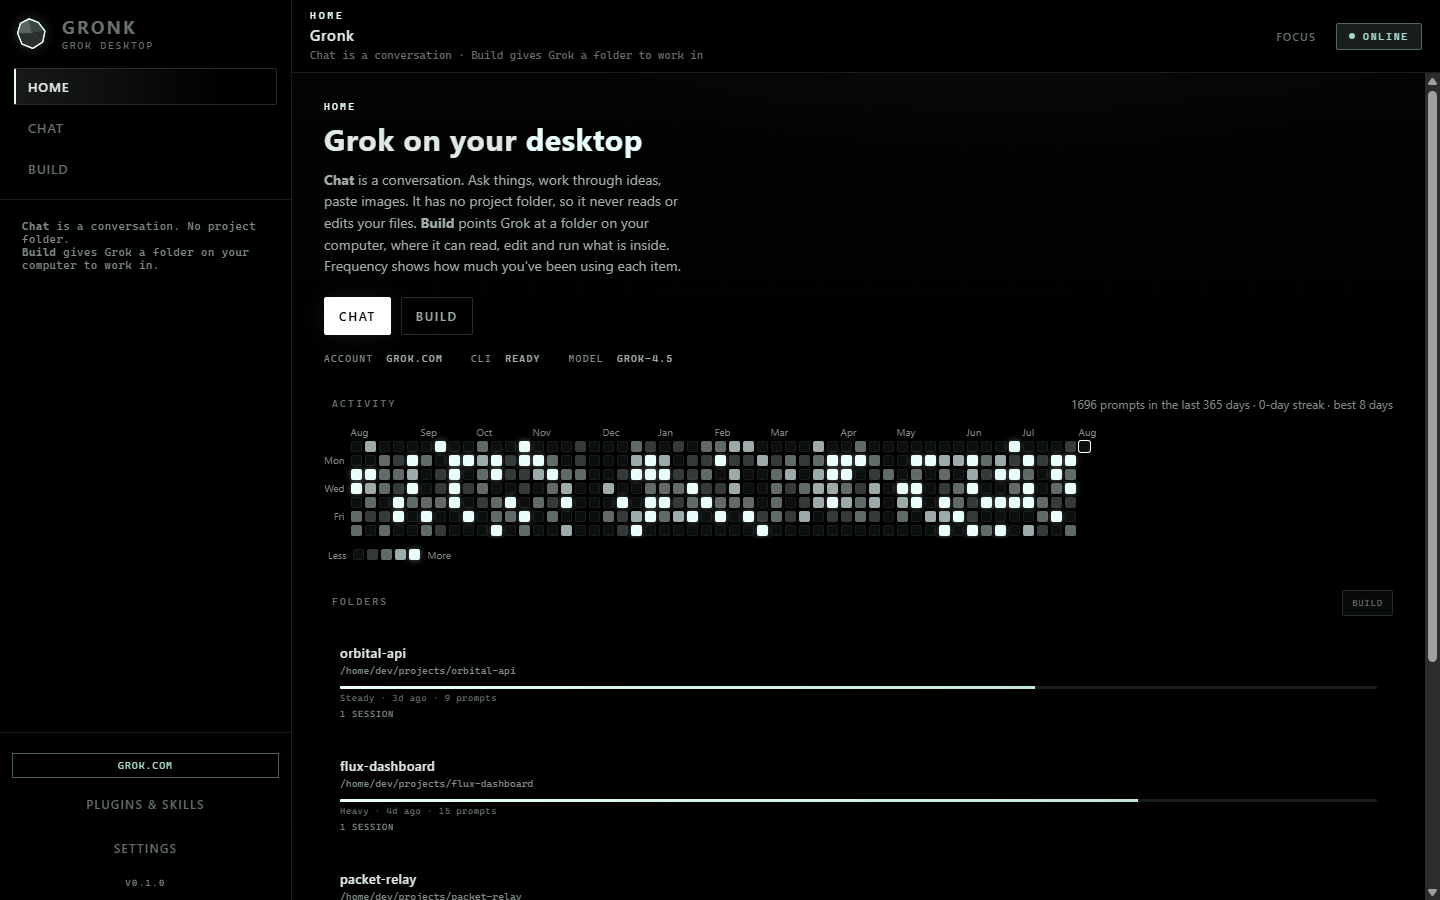
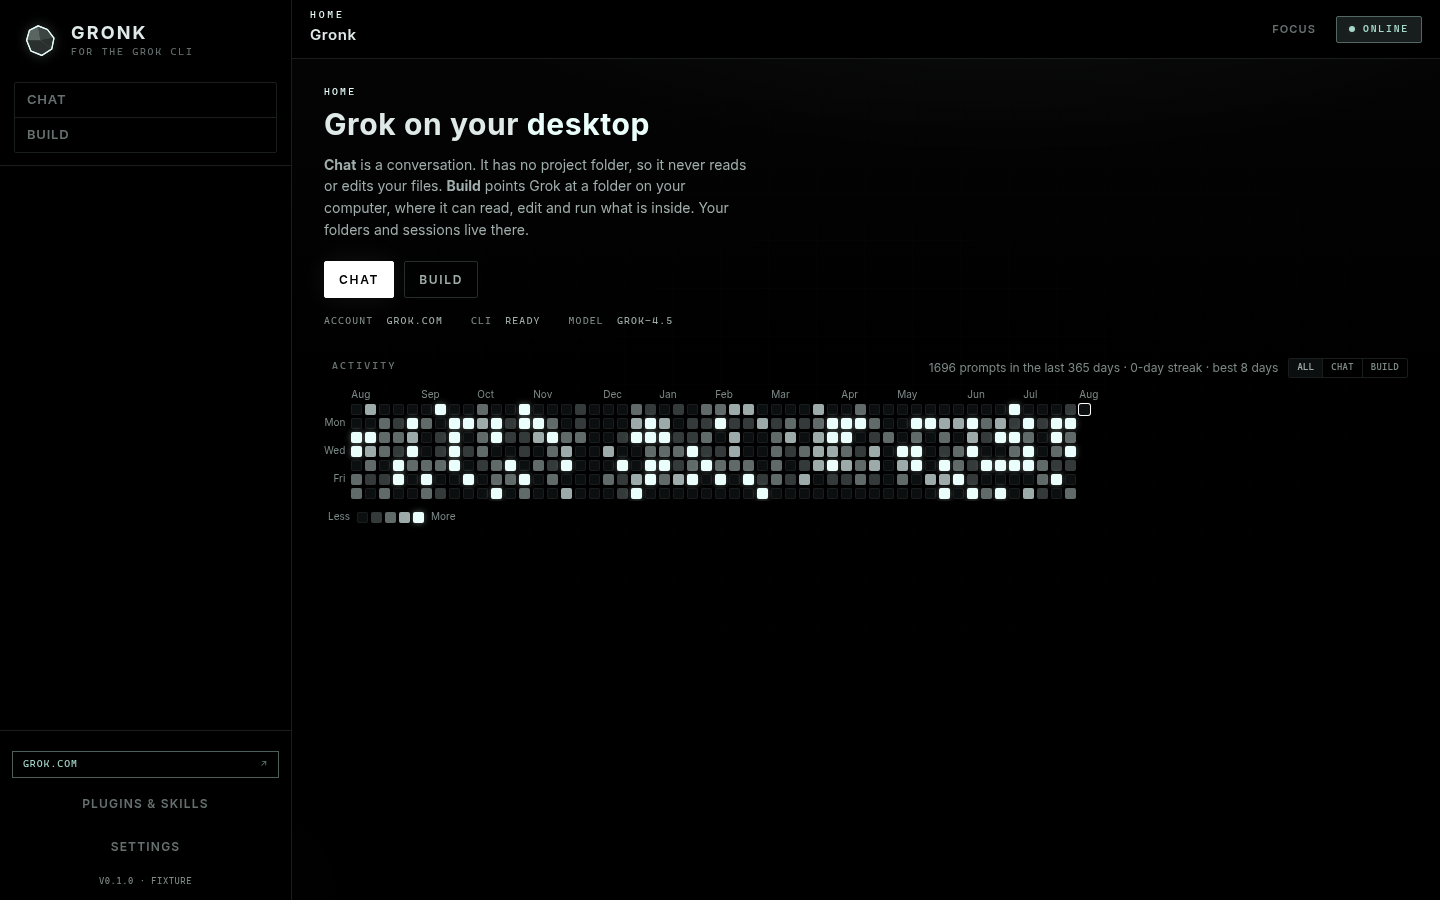
Refresh README screenshots for the Home landing pad (#137)

diff --git a/scripts/visual/capture.js b/scripts/visual/capture.js
@@ -62,6 +62,18 @@ const report = []
 
 const SESSION_TITLE = 'Rate limiter drops bursts under load'
 
+/**
+ * Home is a landing pad and no longer lists sessions. The fixture title lives
+ * on Build. A scenario that starts with clickText: SESSION_TITLE from default
+ * Home photographs Home and reports a missing step.
+ */
+const OPEN_SESSION = [
+  { clickText: 'Build' },
+  { wait: 1400 },
+  { clickText: SESSION_TITLE },
+  { wait: 1800 }
+]
+
 const PERMISSION_EVENT = {
   type: 'permission-request',
   request: {
@@ -118,8 +130,7 @@ const USAGE_EVENT = {
 }
 
 const usageSteps = [
-  { clickText: SESSION_TITLE },
-  { wait: 1800 },
+  ...OPEN_SESSION,
   { emit: USAGE_EVENT },
   { wait: 800 },
   // The tray's own Usage tab. It was `.usage-summary`, a control on UsageMeter,
@@ -136,18 +147,13 @@ const usageSteps = [
  * type (set an input's value), emit (push a main-process event), wait (ms).
  */
 const SCENARIOS = [
-  { name: 'preview-docked', state: 'preview', steps: [{ clickText: SESSION_TITLE }, { wait: 2000 }] },
-  { name: 'preview-popped', state: 'preview-popped', steps: [{ clickText: SESSION_TITLE }, { wait: 2000 }] },
-  { name: 'remote-images', state: 'remoteimg', steps: [{ clickText: SESSION_TITLE }, { wait: 2000 }] },
+  { name: 'preview-docked', state: 'preview', steps: [...OPEN_SESSION] },
+  { name: 'preview-popped', state: 'preview-popped', steps: [...OPEN_SESSION] },
+  { name: 'remote-images', state: 'remoteimg', steps: [...OPEN_SESSION] },
   {
     name: 'row-menu',
     state: 'default',
-    steps: [
-      { clickText: SESSION_TITLE },
-      { wait: 1800 },
-      { click: '.session-item-row .menu-btn.icon' },
-      { wait: 700 }
-    ]
+    steps: [...OPEN_SESSION, { click: '.session-item-row .menu-btn.icon' }, { wait: 700 }]
   },
   { name: 'sidebar-footer', state: 'default', steps: [{ clickText: 'Build' }, { wait: 1200 }] },
   {
@@ -183,16 +189,19 @@ const SCENARIOS = [
   {
     name: 'light-build',
     state: 'light-build',
-    steps: [{ clickText: SESSION_TITLE }, { wait: 1800 }, { click: '.tool-activity-bar' }, { wait: 800 }]
+    steps: [...OPEN_SESSION, { click: '.tool-activity-bar' }, { wait: 800 }]
   },
   { name: 'light-settings', state: 'light-settings', steps: [{ clickText: 'Settings' }, { wait: 1200 }] },
   { name: 'usage-session', state: 'default', steps: usageSteps },
   { name: 'usage-apikey', state: 'apikey', steps: usageSteps },
+  // Published as docs/images/home.png and docs/images/build.png. After a recapture
+  // that actually changes one of these, copy the PNG — do not paste a live Gronk
+  // window. Home is a landing pad; Build still shows the filler folders.
   { name: 'readme-home', state: 'default', steps: [] },
   {
     name: 'readme-build',
     state: 'default',
-    steps: [{ clickText: SESSION_TITLE }, { wait: 1800 }, { click: '.tool-activity-bar' }, { wait: 900 }]
+    steps: [...OPEN_SESSION, { click: '.tool-activity-bar' }, { wait: 900 }]
   },
   { name: 'readme-chat', state: 'default', steps: [{ clickText: 'Chat' }, { wait: 1400 }] },
   { name: 'readme-settings', state: 'default', steps: [{ clickText: 'Settings' }, { wait: 1200 }] },
@@ -204,15 +213,15 @@ const SCENARIOS = [
   {
     name: 'permission',
     state: 'default',
-    steps: [{ clickText: SESSION_TITLE }, { wait: 1800 }, { emit: PERMISSION_EVENT }, { wait: 1200 }]
+    steps: [...OPEN_SESSION, { emit: PERMISSION_EVENT }, { wait: 1200 }]
   },
   {
     name: 'toolfail',
     state: 'toolfail',
-    steps: [{ clickText: SESSION_TITLE }, { wait: 1800 }, { click: '.tool-activity-bar' }, { wait: 900 }]
+    steps: [...OPEN_SESSION, { click: '.tool-activity-bar' }, { wait: 900 }]
   },
-  { name: 'streaming', state: 'streaming', steps: [{ clickText: SESSION_TITLE }, { wait: 1800 }] },
-  { name: 'preview', state: 'preview', steps: [{ clickText: SESSION_TITLE }, { wait: 1800 }] },
+  { name: 'streaming', state: 'streaming', steps: [...OPEN_SESSION] },
+  { name: 'preview', state: 'preview', steps: [...OPEN_SESSION] },
   {
     name: 'plugins',
     state: 'default',
@@ -234,12 +243,7 @@ const SCENARIOS = [
     state: 'lightbox',
     width: 1000,
     height: 820,
-    steps: [
-      { clickText: SESSION_TITLE },
-      { wait: 1800 },
-      { click: '.local-image-btn' },
-      { wait: 900 }
-    ]
+    steps: [...OPEN_SESSION, { click: '.local-image-btn' }, { wait: 900 }]
   },
   /*
    * The catalogue. Twenty-four `![name](path)` in one reply, six of them not on
@@ -255,22 +259,17 @@ const SCENARIOS = [
   {
     name: 'image-catalogue',
     state: 'catalogue',
-    steps: [{ clickText: SESSION_TITLE }, { wait: 2200 }]
+    steps: [...OPEN_SESSION, { wait: 400 }]
   },
   {
     name: 'image-catalogue-failures',
     state: 'catalogue',
-    steps: [
-      { clickText: SESSION_TITLE },
-      { wait: 2200 },
-      { click: '.md-image-failures-toggle' },
-      { wait: 700 }
-    ]
+    steps: [...OPEN_SESSION, { wait: 400 }, { click: '.md-image-failures-toggle' }, { wait: 700 }]
   },
   {
     name: 'light-image-catalogue',
     state: 'light-catalogue',
-    steps: [{ clickText: SESSION_TITLE }, { wait: 2200 }]
+    steps: [...OPEN_SESSION, { wait: 400 }]
   },
   {
     // Narrow enough that auto-fill actually has to give up columns: the bubble
@@ -281,7 +280,7 @@ const SCENARIOS = [
     state: 'catalogue',
     width: 760,
     height: 820,
-    steps: [{ clickText: SESSION_TITLE }, { wait: 2200 }]
+    steps: [...OPEN_SESSION, { wait: 400 }]
   },
   { name: 'project-menu', state: 'project-menu', steps: [{ wait: 2500 }] },
   { name: 'folder-menu', state: 'folder-menu', steps: [{ wait: 2500 }] },
@@ -294,12 +293,7 @@ const SCENARIOS = [
     // to exactly the ambiguity it was built to remove.
     name: 'browse-with-active-project',
     state: 'default',
-    steps: [
-      { clickText: SESSION_TITLE },
-      { wait: 1800 },
-      { clickText: 'Build' },
-      { wait: 1600 }
-    ]
+    steps: [...OPEN_SESSION, { clickText: 'Build' }, { wait: 1600 }]
   }
 ]
 

diff --git a/tests/demo-shots.test.ts b/tests/demo-shots.test.ts
@@ -1,0 +1,82 @@
+import test from 'node:test'
+import assert from 'node:assert/strict'
+import fs from 'node:fs'
+import path from 'node:path'
+import { fileURLToPath } from 'node:url'
+
+/**
+ * Public README screenshots must be the shots-harness fixtures, not a live
+ * Gronk profile. Home is a landing pad (Chat, Build, heatmap); folder and
+ * session catalogs live on Build / Chat.
+ *
+ * These tests fail if Home grows those lists back, if the harness starts
+ * inventing real-looking personal paths, or if docs/images/ drifts from the
+ * visual readme-* baselines that capture.js actually photographs.
+ */
+
+const ROOT = path.resolve(path.dirname(fileURLToPath(import.meta.url)), '..')
+const read = (p: string) => fs.readFileSync(path.join(ROOT, p), 'utf8')
+
+test('HomeView is still a landing pad: no Folders or Build sessions headings', () => {
+  const src = read('src/components/HomeView.tsx')
+  assert.match(src, /Landing pad/)
+  // JSX text, not the sentence "Your folders and sessions live there".
+  assert.doesNotMatch(src, />Folders</)
+  assert.doesNotMatch(src, />Build sessions</)
+  assert.doesNotMatch(src, /browse-grid/)
+  assert.doesNotMatch(src, /workspace-folder-list/)
+})
+
+test('session-opening visual scenarios go through Build first', () => {
+  const src = read('scripts/visual/capture.js')
+  assert.match(src, /const OPEN_SESSION/)
+  // The old path: click the title on Home. That now photographs Home.
+  assert.doesNotMatch(src, /steps:\s*\[\s*\{\s*clickText:\s*SESSION_TITLE/)
+  assert.doesNotMatch(src, /usageSteps\s*=\s*\[\s*\{\s*clickText:\s*SESSION_TITLE/)
+})
+
+test('the shots harness only advertises the filler /home/dev/projects trio', () => {
+  const shots = read('src/__shots.tsx')
+  assert.match(shots, /cwd: '\/home\/dev\/projects\/orbital-api'/)
+  assert.match(shots, /cwd: '\/home\/dev\/projects\/flux-dashboard'/)
+  assert.match(shots, /cwd: '\/home\/dev\/projects\/packet-relay'/)
+  assert.deepEqual(
+    [...shots.matchAll(/cwd: '([^']+)'/g)].filter((m) => m[1].includes('projects')).map((m) => m[1]),
+    [
+      '/home/dev/projects/orbital-api',
+      '/home/dev/projects/flux-dashboard',
+      '/home/dev/projects/packet-relay'
+    ]
+  )
+  assert.doesNotMatch(shots, /\/Users\//)
+  assert.doesNotMatch(shots, /HesNotTheGuy/)
+})
+
+test('README Home caption is Chat/Build/heatmap, not a folders catalog', () => {
+  const readme = read('README.md')
+  const home = readme.match(/!\[([^\]]+)\]\(docs\/images\/home\.png\)/)
+  assert.ok(home, 'README no longer embeds docs/images/home.png')
+  const alt = home[1]
+  assert.match(alt, /heatmap/i)
+  assert.match(alt, /Chat/i)
+  assert.match(alt, /Build/i)
+  assert.doesNotMatch(alt, /recent projects/i)
+  assert.doesNotMatch(alt, /Folders/)
+  assert.doesNotMatch(alt, /Build sessions/)
+})
+
+test('published README shots are the fixture readme-* baselines, not a live profile', () => {
+  const pairs: Array<[string, string]> = [
+    ['docs/images/home.png', 'tests/visual/baseline/readme-home.png'],
+    ['docs/images/build.png', 'tests/visual/baseline/readme-build.png']
+  ]
+  for (const [published, baseline] of pairs) {
+    const a = fs.readFileSync(path.join(ROOT, published))
+    const b = fs.readFileSync(path.join(ROOT, baseline))
+    assert.equal(
+      a.equals(b),
+      true,
+      `${published} is not ${baseline}: copy the fixture shot, do not paste a live Gronk window`
+    )
+  }
+})

diff --git a/src/__shots.tsx b/src/__shots.tsx
@@ -98,6 +98,8 @@ function localDayWindow(count: number): Date[] {
   return out
 }
 
+// The only project names public screenshots may show. Home does not list them
+// (it is a landing pad); Build does. Do not substitute a live profile's paths.
 const PROJECTS = [
   { cwd: '/home/dev/projects/orbital-api', name: 'orbital-api' },
   { cwd: '/home/dev/projects/flux-dashboard', name: 'flux-dashboard' },

diff --git a/CHANGELOG.md b/CHANGELOG.md
@@ -12,6 +12,9 @@ Notable changes to Gronk. Format based on
   live on Build (and Chat history lives on Chat). Home was a third copy of the
   same lists, so it was unclear where to pick up work. It is now a landing pad:
   Chat, Build, and the activity heatmap.
+- **README screenshots show that Home**, with the shots-harness filler
+  projects (`orbital-api`, `flux-dashboard`, `packet-relay`), not a live
+  profile. Folder and session lists still appear on Build.
 
 ## [0.5.1] - 2026-08-25
 

diff --git a/README.md b/README.md
@@ -17,7 +17,7 @@ Your projects, your sessions, your history, in a window instead of a terminal.
 
 </div>
 
-![Gronk Home with the rock brand mark, pure-black chrome, Focus in the topbar, an activity heatmap, and recent projects](docs/images/home.png)
+![Gronk Home: Chat and Build actions, an activity heatmap, and no folder or session catalog](docs/images/home.png)
 
 > [!NOTE]
 > **Every release ships installers for Windows, macOS and Linux.** Day-to-day
